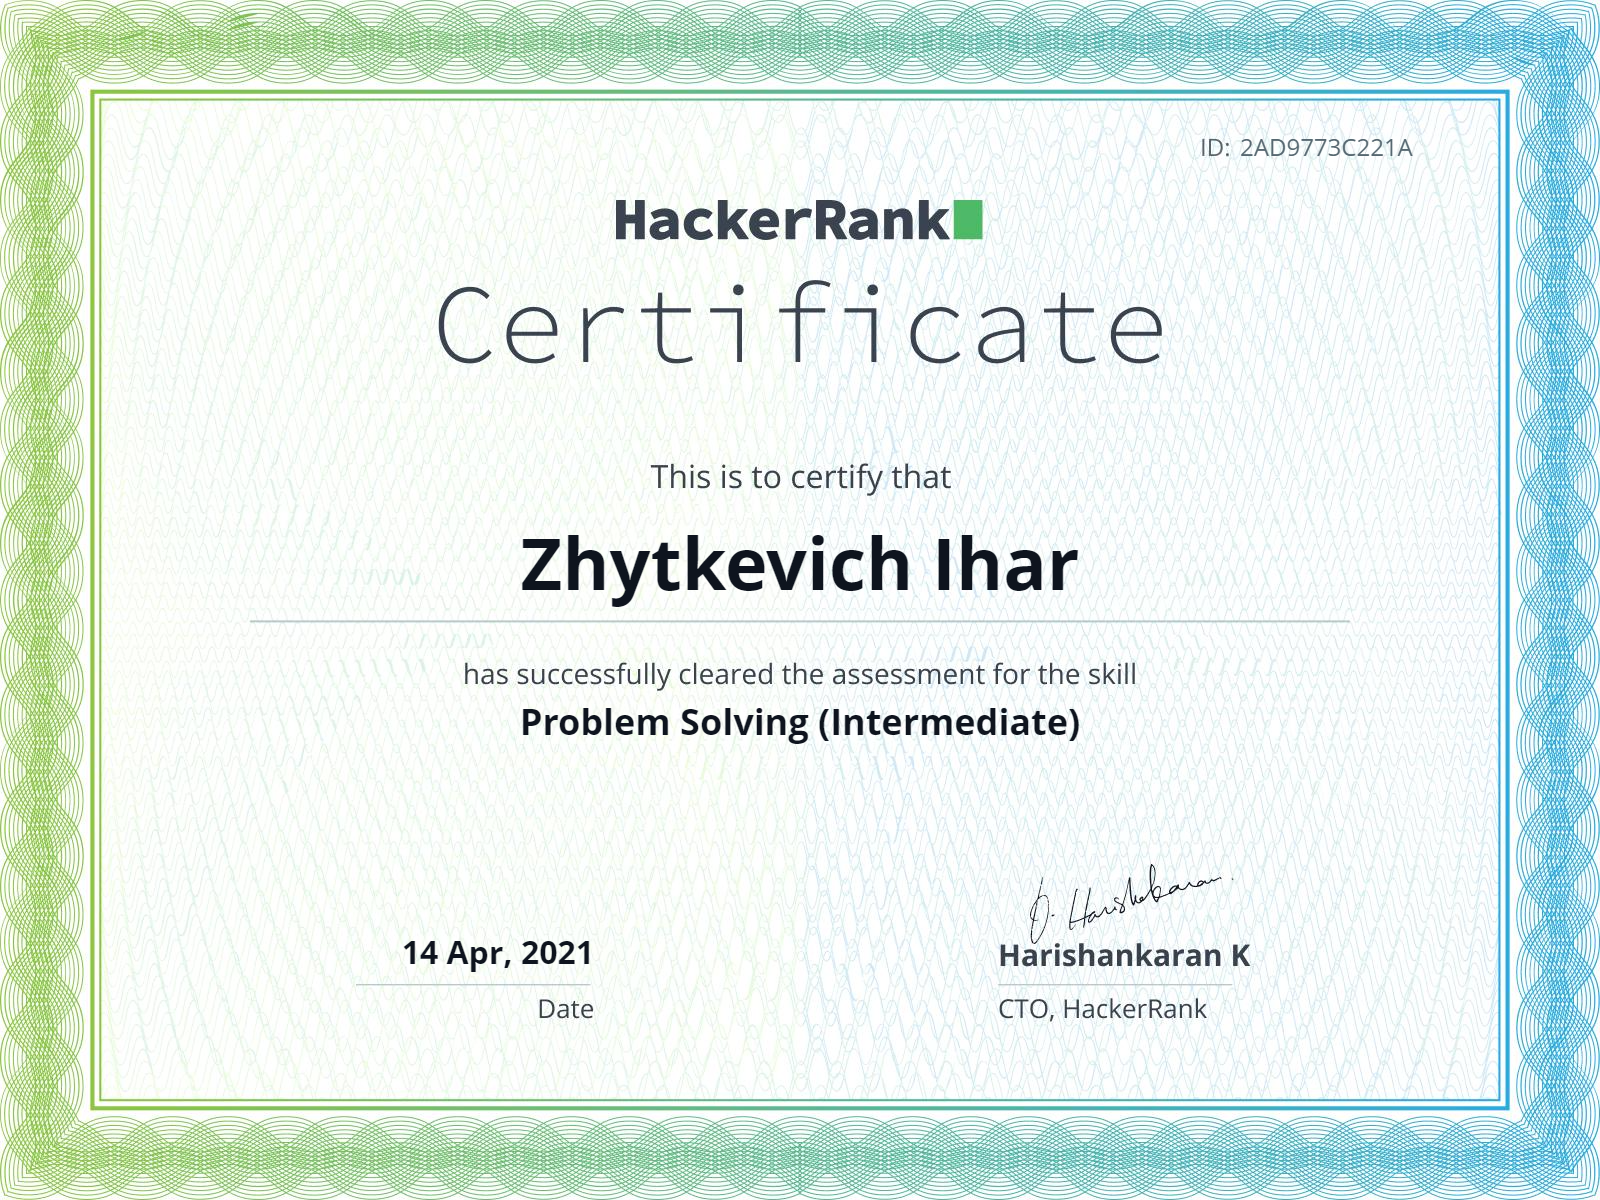
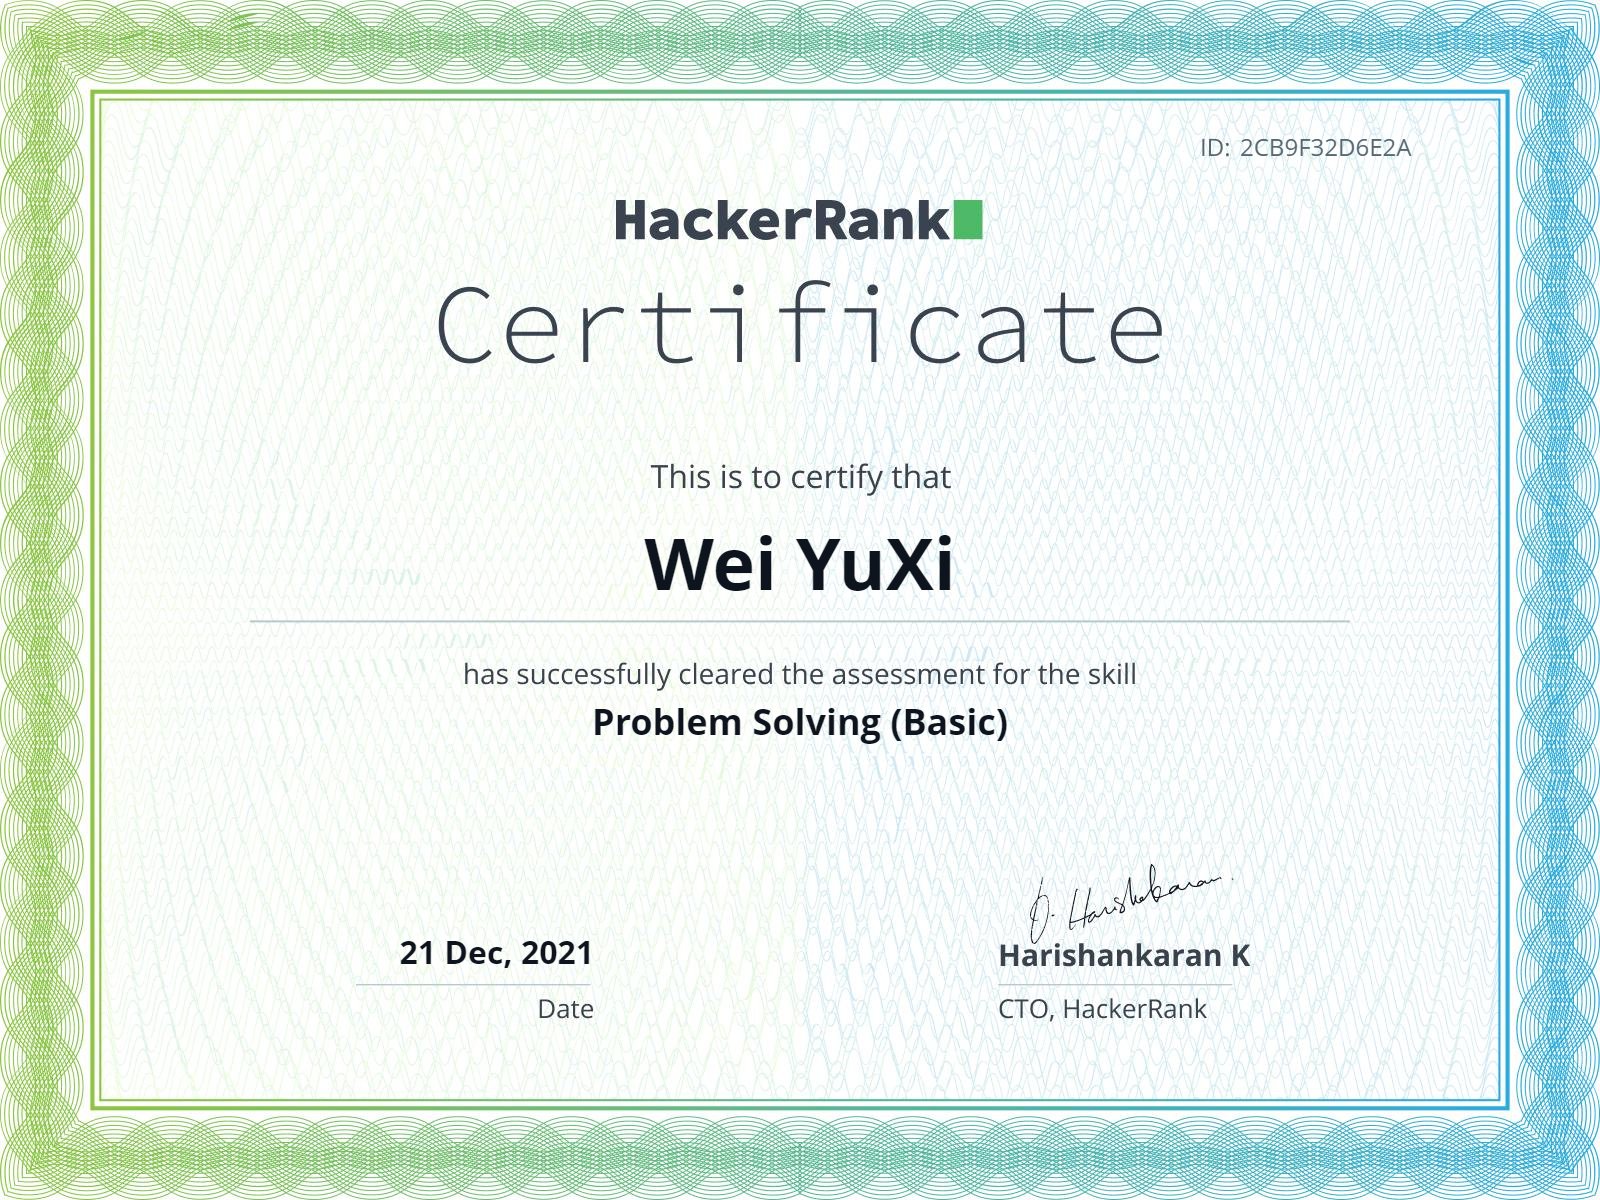
update with new personal data

diff --git a/src/portfolio.js b/src/portfolio.js
@@ -11,21 +11,21 @@ const illustration = {
 };
 
 const greeting = {
-  username: "Ihar Zhytkevich",
-  title: "Hi all, I'm Ihar",
+  username: "Wei Yuxi",
+  title: "Hi all, I'm Yuxi",
   subTitle: emoji(
     "A passionate Full Stack Software Developer 🚀 having an experience of building Web and Mobile applications with JavaScript / Reactjs / Nodejs / React Native, NFT / Web3 / Dex and some other cool libraries and frameworks."
   ),
-  resumeLink: "https://resume.io/r/CWOyzVsDh", // Set to empty to hide the button
+  resumeLink: "https://resume.io/r/jj2OItsuz", // Set to empty to hide the button
   displayGreeting: true // Set false to hide this section, defaults to true
 };
 
 // Social Media Links
 
 const socialMediaLinks = {
-  github: "https://github.com/iharzhytkevich",
-  linkedin: "https://www.linkedin.com/in/ihar-zhytkevich/",
-  gmail: "iharzhytkevich@outlook.com",
+  github: "https://github.com/fierce-dragon",
+  linkedin: "https://www.linkedin.com/in/wei-yuxi-237790228/",
+  gmail: "wei.yuxi@outlook.com",
   // Instagram, Twitter and Kaggle are also supported in the links!
   // To customize icons and social links, tweak src/components/SocialMedia
   display: true // Set true to display this section, defaults to false
@@ -121,10 +121,10 @@ const educationInfo = {
   display: true, // Set false to hide this section, defaults to true
   schools: [
     {
-      schoolName: "The University of Tokyo, Japan",
-      logo: require("./assets/images/tokyoLogo.png"),
-      subHeader: "Master's Degree in Computer Science",
-      duration: "September 2008 - April 2012",
+      schoolName: "University of Science and Technology Beijing",
+      logo: require("./assets/images/university.png"),
+      subHeader: "Bachelor's Degree in Computer Science",
+      duration: "Feb 2008 - Aug 2012",
       descBullets: [
 				"I was selected for ACM Contest which is given to top 10% of students in college.",
         "I have received award from respected director for consistently best performance in academics."
@@ -315,57 +315,24 @@ const achievementSection = {
 
   achievementsCards: [
     {
-      title: "Angular Basic",
-      subtitle: "HackerRank Certificate",
-      image: require("./assets/images/Angular-Basic.png"),
-      footerLink: [
-        {
-          name: "View Certification",
-          url: "https://www.hackerrank.com/certificates/8bd0361872c8"
-        },
-      ]
-    },
-    {
-      title: "React Basic",
+      title: "React",
       subtitle: "HackerRank Certificate",
       image: require("./assets/images/React-Basic.png"),
       footerLink: [
         {
           name: "View Certification",
-          url: "https://www.hackerrank.com/certificates/96182e737244"
+          url: "https://www.hackerrank.com/certificates/d92ab56518f1"
         }
       ]
     },
     {
-      title: "JavaScript Intermediate",
-      subtitle: "HackerRank Certificate",
-      image: require("./assets/images/JS-Intermediate.png"),
-      footerLink: [
-        {
-          name: "View Certification",
-          url: "https://www.hackerrank.com/certificates/277facfbec45"
-        }
-      ]
-    },
-    {
-      title: "Node Basic",
-      subtitle: "HackerRank Certificate",
-      image: require("./assets/images/Node-Basic.png"),
-      footerLink: [
-        {
-          name: "View Certification",
-          url: "https://www.hackerrank.com/certificates/2c037bb3d743"
-        }
-      ]
-    },
-    {
-      title: "Problem Solving Intermediate",
+      title: "Problem Solving",
       subtitle: "HackerRank Certificate",
       image: require("./assets/images/Problem-Solving.png"),
       footerLink: [
         {
           name: "View Certification",
-          url: "https://www.hackerrank.com/certificates/2ad9773c221a"
+          url: "https://www.hackerrank.com/certificates/2cb9f32d6e2a"
         }
       ]
     },
@@ -376,29 +343,7 @@ const achievementSection = {
       footerLink: [
         {
           name: "View Certification",
-          url: "https://www.hackerrank.com/certificates/f52e0612faac"
-        }
-      ]
-    },
-    {
-      title: "SQL Basic",
-      subtitle: "HackerRank Certificate",
-      image: require("./assets/images/SQL-Basic.png"),
-      footerLink: [
-        {
-          name: "View Certification",
-          url: "https://www.hackerrank.com/certificates/4cdb8ccb9c64"
-        }
-      ]
-    },
-    {
-      title: "Python Basic",
-      subtitle: "HackerRank Certificate",
-      image: require("./assets/images/Python-Basic.png"),
-      footerLink: [
-        {
-          name: "View Certification",
-          url: "https://www.hackerrank.com/certificates/07a6aeb18427"
+          url: "https://www.hackerrank.com/certificates/aedf30c31052"
         }
       ]
     }
@@ -466,11 +411,11 @@ const contactInfo = {
   title: emoji("Reach Out to me!"),
   subtitle: "DISCUSS A PROJECT OR JUST WANT TO SAY HI? MY INBOX IS OPEN FOR ALL.",
 	bio: "Aspiring Software Developer 👾 | Open Source Contributor 🔥 | Speaker🎙 | Tech Writer ✍ ",
-	location: "Gomel, Belarus",
-  number: "+375 349-495-6920",
+	location: "Jilin, China",
+  number: "+86 17521626266",
 	hireable: "Yes",
 	avatar: require("./assets/images/avatar.png"),
-  email_address: "iharzhytkevich@outlook.com"
+  email_address: "wei.yuxi@outlook.com"
 };
 
 // Twitter Section

diff --git a/src/components/footer/Footer.js b/src/components/footer/Footer.js
@@ -10,7 +10,7 @@ export default function Footer() {
     <Fade bottom duration={1000} distance="5px">
       <div className="footer-div">
         <p className={isDark ? "dark-mode footer-text" : "footer-text"}>
-          {emoji("Made with ❤ by Ihar Zhytkevich")}
+          {emoji("Made with ❤ by Wei Yuxi")}
         </p>
       </div>
     </Fade>

diff --git a/src/components/githubProfileCard/GithubProfileCard.js b/src/components/githubProfileCard/GithubProfileCard.js
@@ -44,7 +44,7 @@ export default function GithubProfileCard() {
           <div className="">
             <img
               src={contactInfo.avatar}
-              alt="Ihar Zhytkevich"
+              alt="Wei Yuxi"
 							width="290px"
 							height="290px"
               className="profile-image"
